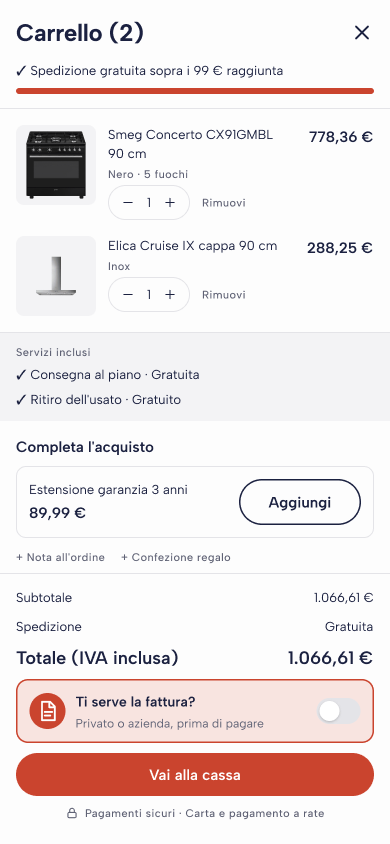
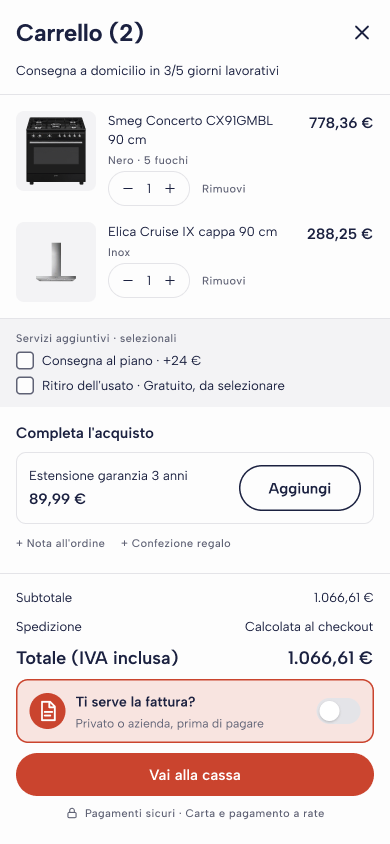
No free delivery: floor delivery +24 €, used-appliance pickup free on request (checkbox options in carts); fix overlapping pills and kit prices
Claude-Session: https://claude.ai/code/session_01DzDcr4Xa4AaqXv1Nbqd2T5

diff --git a/docs/figma/pages-b2c.md b/docs/figma/pages-b2c.md
@@ -130,3 +130,28 @@ Trovaincasso already had a small "Ti serve la fattura?" field and a "+ Richiedi 
 now hidden (replaced by the new block). On mobile the spacing was tightened so everything fits in 844 px.
 
 Renders: `docs/screenshots/after/<brand>-04-cart.png`, `docs/screenshots/mobile/<brand>-m04-cart.png`.
+
+## Delivery and used-appliance pickup rules (2026-11-18, all three sites)
+
+- **Delivery is never free, floor delivery included.** Every "consegna (al piano) gratuita" / "spedizione gratuita
+  (sopra 99 €)" claim was removed. Floor delivery is an option at **+24 €**.
+- **Used-appliance pickup is always free, but only if the customer selects it** ("Gratuito · da selezionare" /
+  "gratuito, su richiesta").
+
+Where it changed:
+- Cart drawers 04 / M04: the top line reads "Consegna a domicilio in 3/5 giorni lavorativi" (Trovaincasso: "In partenza
+  entro 24/48h · consegna al piano +24 €") and the free-shipping progress bar is hidden; "Servizi inclusi" became
+  "Servizi aggiuntivi · selezionali" with two **checkbox options** (`Opzione · Consegna al piano` +24 €,
+  `Opzione · Ritiro dell'usato` gratuito, da selezionare); summary "Spedizione: Calcolata al checkout".
+- PDP 03 / M03 service rows: Consegna al piano "+24 €" (Trovaincasso was "da 29,00 €"), Ritiro dell'usato "Gratuito · da
+  selezionare" (Trovaincasso was "da 19,00 €"); MisterCucina's delivery line and Trovaincasso's "· Spedizione gratuita"
+  after the list price.
+- Compare boards (TamTam 05 / M05), cart pages 08, list-card components (`Consegna al piano +24 €`), homepage and mobile
+  USP / "Perché" texts (MisterCucina "Spedizione gratuita" → "Consegna al piano +24 €"; the pickup descriptions now say
+  "Gratuito: selezionalo nel carrello…"), Trovaincasso pro board 05.
+- Shipping pages 12: the per-category cost column "Spedizione al piano" was renamed "Spedizione a domicilio" (the rates
+  are the base delivery; floor delivery is the +24 € option on top).
+- Kept: the marquee promo "Estensione garanzia 1 anno gratuita", "Crea un account: è gratuito", footer link names.
+
+Also fixed: MisterCucina "Ricerche popolari" pills overlapped (re-spaced 12 px, row clipped with fade); TamTam "Componi
+il tuo kit" Elica card, sale price and struck price overlapped.
